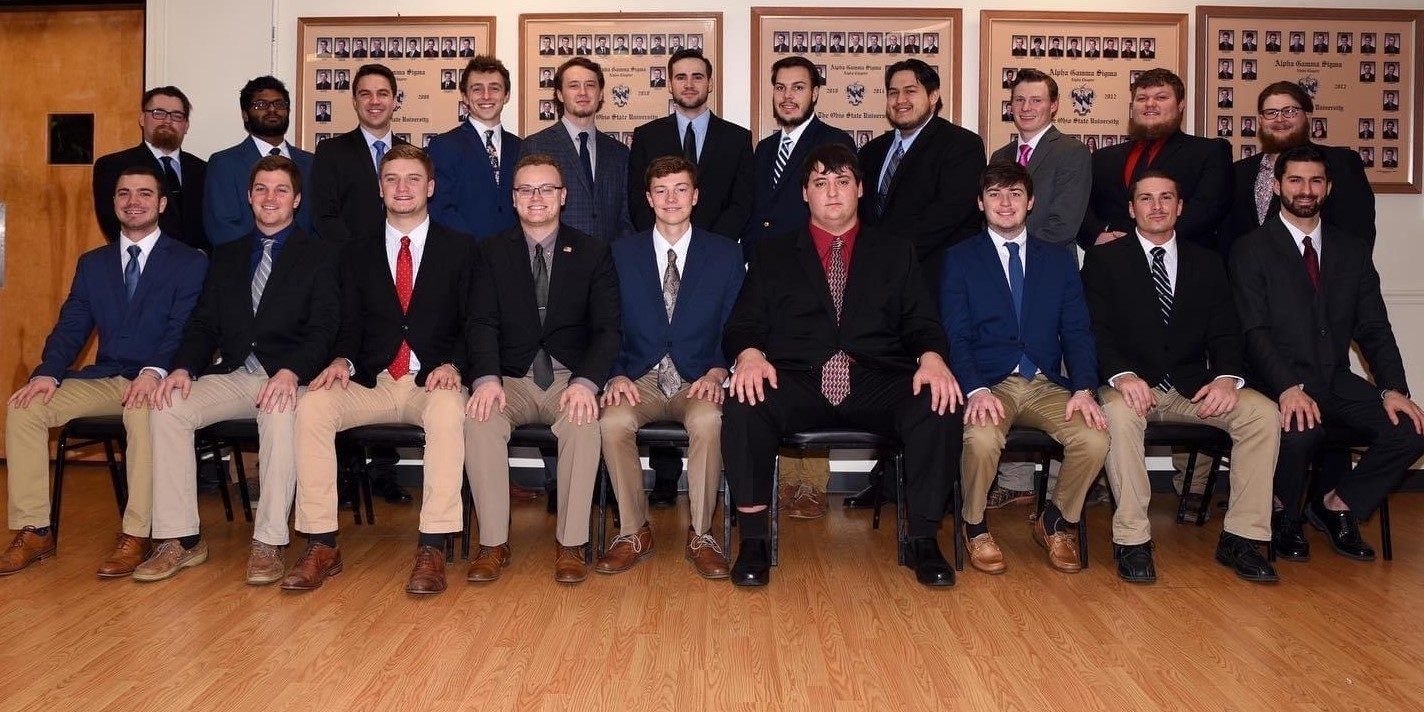
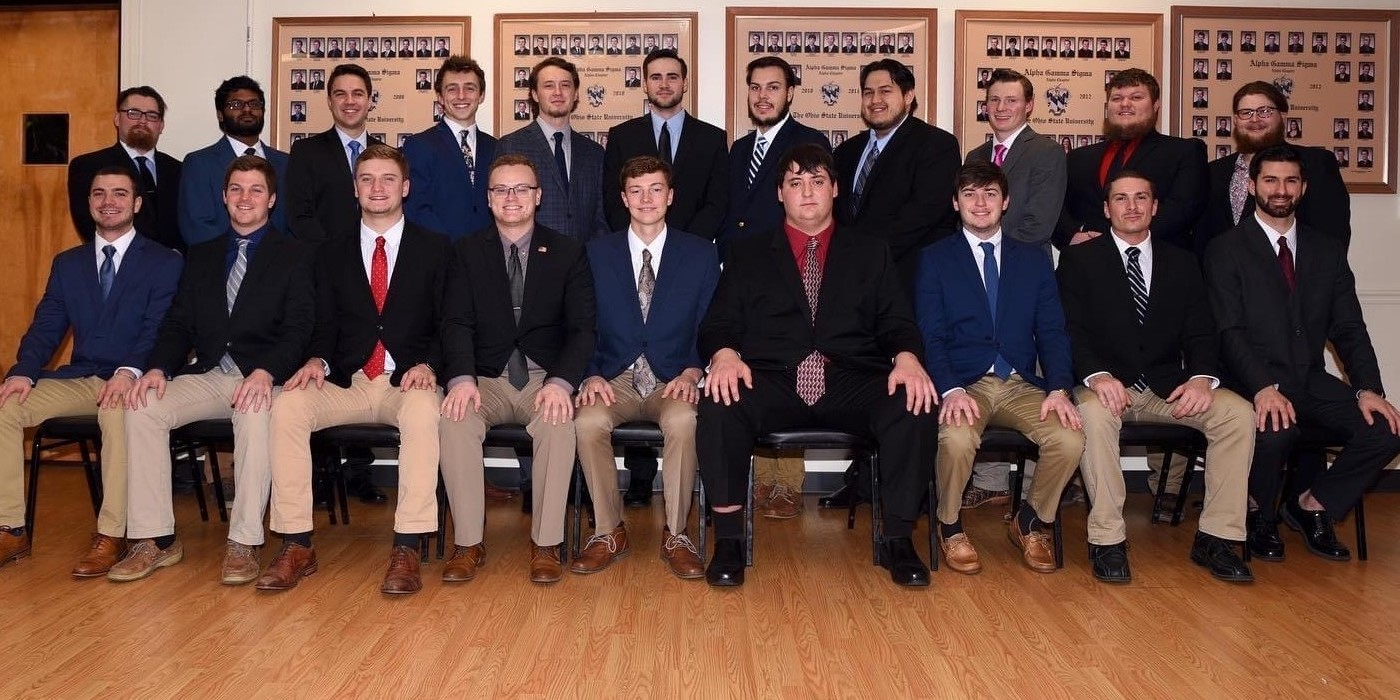
Changing higher quality Jumbo images

diff --git a/index.html b/index.html
@@ -84,7 +84,7 @@
           </div>
           <div class="carousel-item">
             <!-- Second Image -->
-            <img src="images/SteerShowFinal1.jpg" alt="Steer Show Group Photo 2020">
+            <img src="images/Steer_Show_Group_CROPPED.jpg" alt="Steer Show Group Photo 2020">
           </div>
           <div class="carousel-item">
             <!-- Third Image -->
